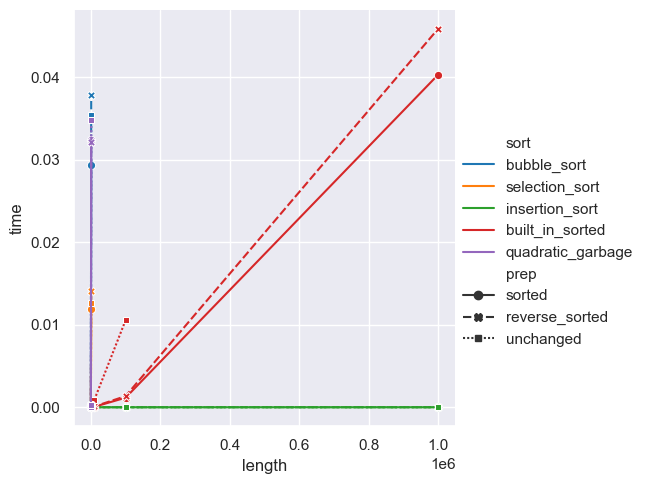
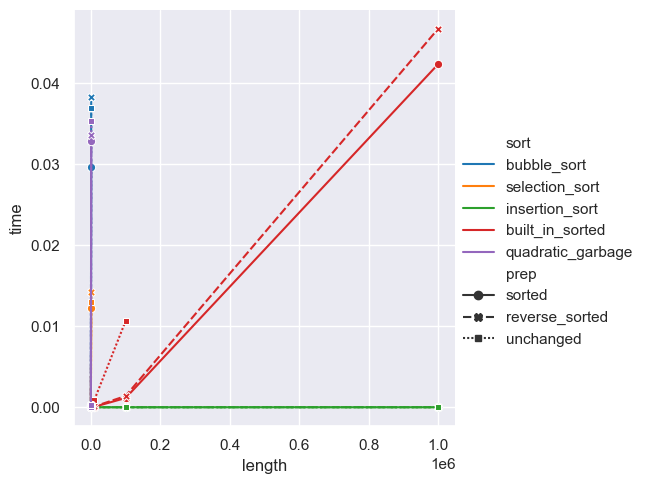
separate my_algs from all tested sorts (mine + control)

diff --git a/se4230/project-1/sorting.py b/se4230/project-1/sorting.py
@@ -45,8 +45,8 @@ def insertion_sort(arr):
     return arr   
 
 ## pytests
-sorts = [bubble_sort, selection_sort, insertion_sort]
-@pytest.mark.parametrize("alg", sorts, ids=lambda f: f.__name__)
+my_sorts = [bubble_sort, selection_sort, insertion_sort]
+@pytest.mark.parametrize("alg", my_sorts, ids=lambda f: f.__name__)
 def test_mega_sort(alg):
     arr = [23, 84, 23, 42, 91, 4, 55, 76, 12, 67]
     sorted_arr = [4, 12, 23, 23, 42, 55, 67, 76, 84, 91]
@@ -100,7 +100,7 @@ def aggregated_time_sort(lists, length, prep, sort, repetitions):
             for a in lists
             for _ in range(repetitions)])
 
-sorts.extend(control_group)
+sorts = [*my_sorts, *control_group]
 if __name__ == '__main__':
    random.seed(4567)
    preps = [sorted, reverse_sorted, unchanged]
